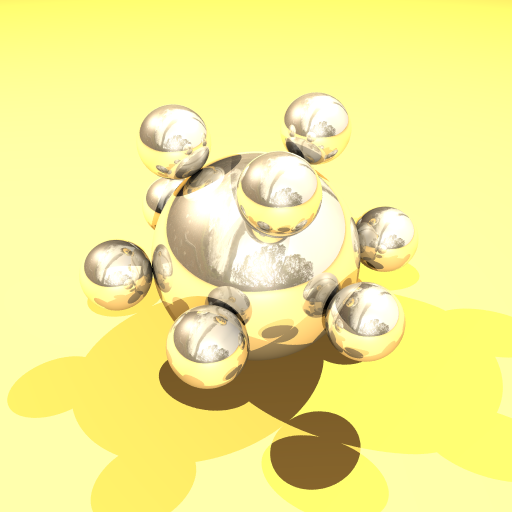
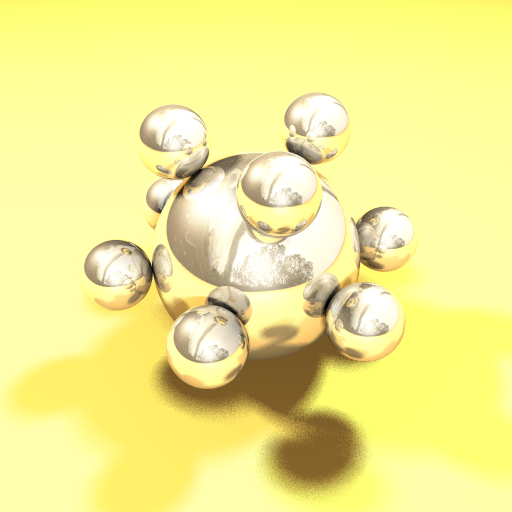
Soft Shadows with Antialiasing fixed
BVH and Grid still need to be tested

diff --git a/RayTracer_G10/main.cpp b/RayTracer_G10/main.cpp
@@ -88,10 +88,11 @@ int WindowHandle = 0;
 bool ANTIALIASING = true;
 bool DEPTH_OF_FIELD = false;
 bool FUZZY_REFLECTIONS = false;
-bool SOFT_SHADOWS = false;
+bool SOFT_SHADOWS = true;
 
 int SPP = 4; // (sqrt) Sample Per Pixel - (sqrt) Number of rays called for each pixel
-int NUM_LIGHTS = 4;
+int NUM_LIGHTS = 4; // Should be the same as SPP
+int off_x, off_y; // Used for more even distribution using SOFT_SHADOWS + ANTIALIASING
 float ROUGHNESS = 0.1f;
 
 /////////////////////////////////////////////////////////////////////// ERRORS
@@ -615,15 +616,12 @@ Color calculateLightContribution(Ray ray, Vector hit_pnt, Vector hit_norm, Mater
 			}
 
 			else {
-				for (int k = 0; k < SPP; k++) {
-					for (int j = 0; j < SPP; j++) {
-						light_pos.x = light_pos.x - 0.5 + (k + rand_float()) / SPP;
-						light_pos.y = light_pos.y - 0.5 + (j + rand_float()) / SPP;
-						light_color += calculateLightReflection(light_pos, hit_pnt, hit_norm, ray.direction, mat, light);
-					}
-				}
+				light_pos.x = light_pos.x - l_jitt_size + (off_x + rand_float()) / SPP;
+				light_pos.y = light_pos.y - l_jitt_size + (off_y + rand_float()) / SPP;
+				light_color += calculateLightReflection(light_pos, hit_pnt, hit_norm, ray.direction, mat, light);
 			}
 		}
+
 		else {
 			light_color += calculateLightReflection(light_pos, hit_pnt, hit_norm, ray.direction, mat, light);
 		}
@@ -777,10 +775,12 @@ void renderScene()
 
 			}
 			else {
-				for (int p = 0; p < SPP; p++) {
-					for (int q = 0; q < SPP; q++) {
-						pixel.x = x + (p + rand_float()) / SPP;
-						pixel.y = y + (q + rand_float()) / SPP;
+				for (int k = 0; k < SPP; k++) {
+					for (int j = 0; j < SPP; j++) {
+						off_x = k;
+						off_y = j;
+						pixel.x = x + (k + rand_float()) / SPP;
+						pixel.y = y + (j + rand_float()) / SPP;
 
 						Ray* ray = nullptr;
 
